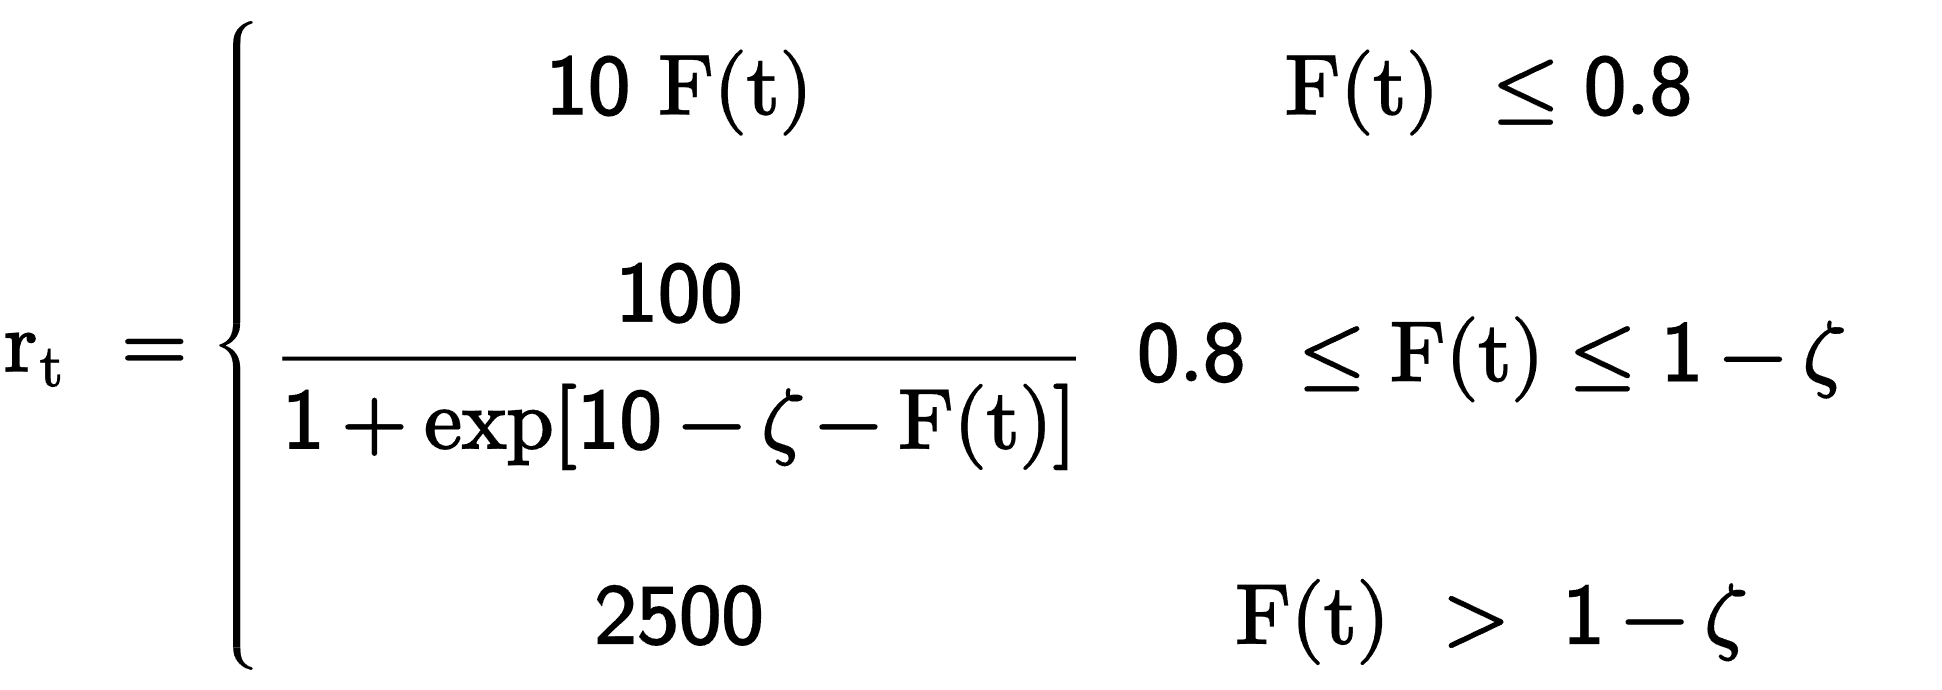
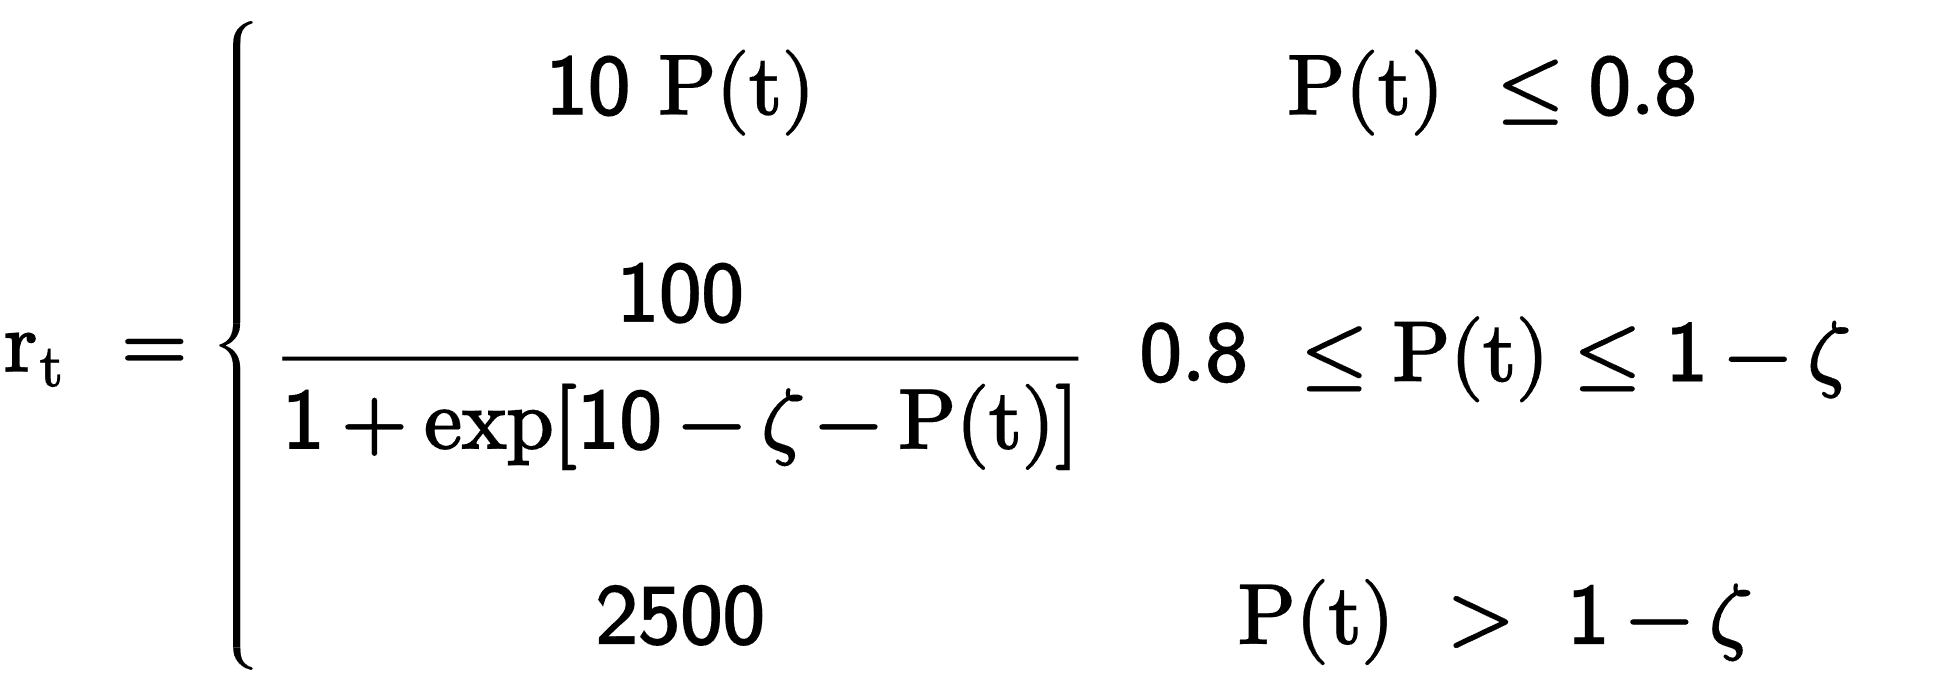
detalles

diff --git a/drl_details.md b/drl_details.md
@@ -10,8 +10,8 @@
 |:----------------------------------------|:---------|
 | Tamaño del minibatch                    | 32       |
 | Tamaño de la memoria                    | 40000    |
-| Tasa de aprendizaje ($\alpha$)          | 0.01     |
-| Dec. de la recompensa ($\gamma$)        | 0.95     |
+| Leraning rate  ($\alpha$)               | 0.01     |
+| Discounto factor ($\gamma$)             | 0.95     |
 | $N^\circ$ de capas ocultas              | 2        |
 | Neuronas por capa oculta                | 120      |
 | Epsilon inicial/final ($\epsilon$)      | 1/0.01   |
@@ -36,8 +36,6 @@ Estos fueron los parámetros utilizados por defecto en todos los experimentos ex
 
 ### Función recompensa utilizada
 
-La función recompensa $r_t$ utilizada fue tomada del trabajo de referencia (Zhang, 2018) y está basada en la fidelidad $F(t)$ o probabilidad de transmisión y de la tolerancia o threshold de la misma $\zeta$:
-
- 
+La función recompensa $r_t$ utilizada fue tomada del trabajo de referencia (Zhang, 2018) y está basada en la fidelidad o probabilidad de transmisión $P(t)$ definida en la ec (6) del texto: "*Optimización de la Transmisión de Estados Cuánticos en Cadenas de Qubits usando Deep Reinforcement Learning y Algoritmos Genéticos*" y de la tolerancia o threshold de la misma $\zeta$:
 
 ![alt text](zhang_reward.png)

diff --git a/ga_details.md b/ga_details.md
@@ -6,14 +6,14 @@
 
 
 
-| Parámetro                              | Valor                    |
+| Parámetro                              | Valor                        |
 |----------------------------------------|---------------------------|
-| Individuos en población                | 3000                      |
-| Selección de padres                    |300 (10%) usando 'sss'          |
-| Elitismo                               | 300   (10%)                   |
-| Crossover                              | Uniforme (probabilidad = 0.8)              |
-| Mutación                               | swap sobre N genes       |
-| Saturación                             | 20                       |
+| Individuos en población                | 3000                         |
+| Selección de padres                    |300 (10%) usando 'sss'        |
+| Elitismo                               | 300   (10%)                  |
+| Crossover                              | Uniforme (probabilidad = 0.8)|
+| Mutación                               | swap sobre N genes           |
+| Saturación                             | 20                            |
 
 </td><td>
 
